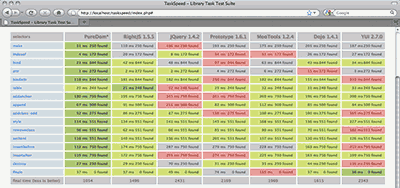
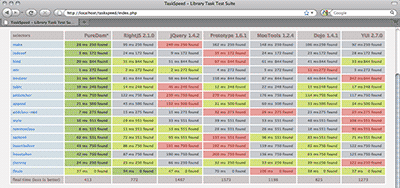
Updating to RightJS 2.1.0

diff --git a/config/initializers/rightjs_options.rb b/config/initializers/rightjs_options.rb
@@ -2,7 +2,7 @@
 # Here are the global site level options
 #
 
-RIGHTJS_VERSION       = "2.0.0"
+RIGHTJS_VERSION       = "2.1.0"
 
 RIGHTJS_ROOT          = "#{RAILS_ROOT}/vendor/right_js"
 RIGHTJS_BUILD         = "#{RAILS_ROOT}/public/builds"
